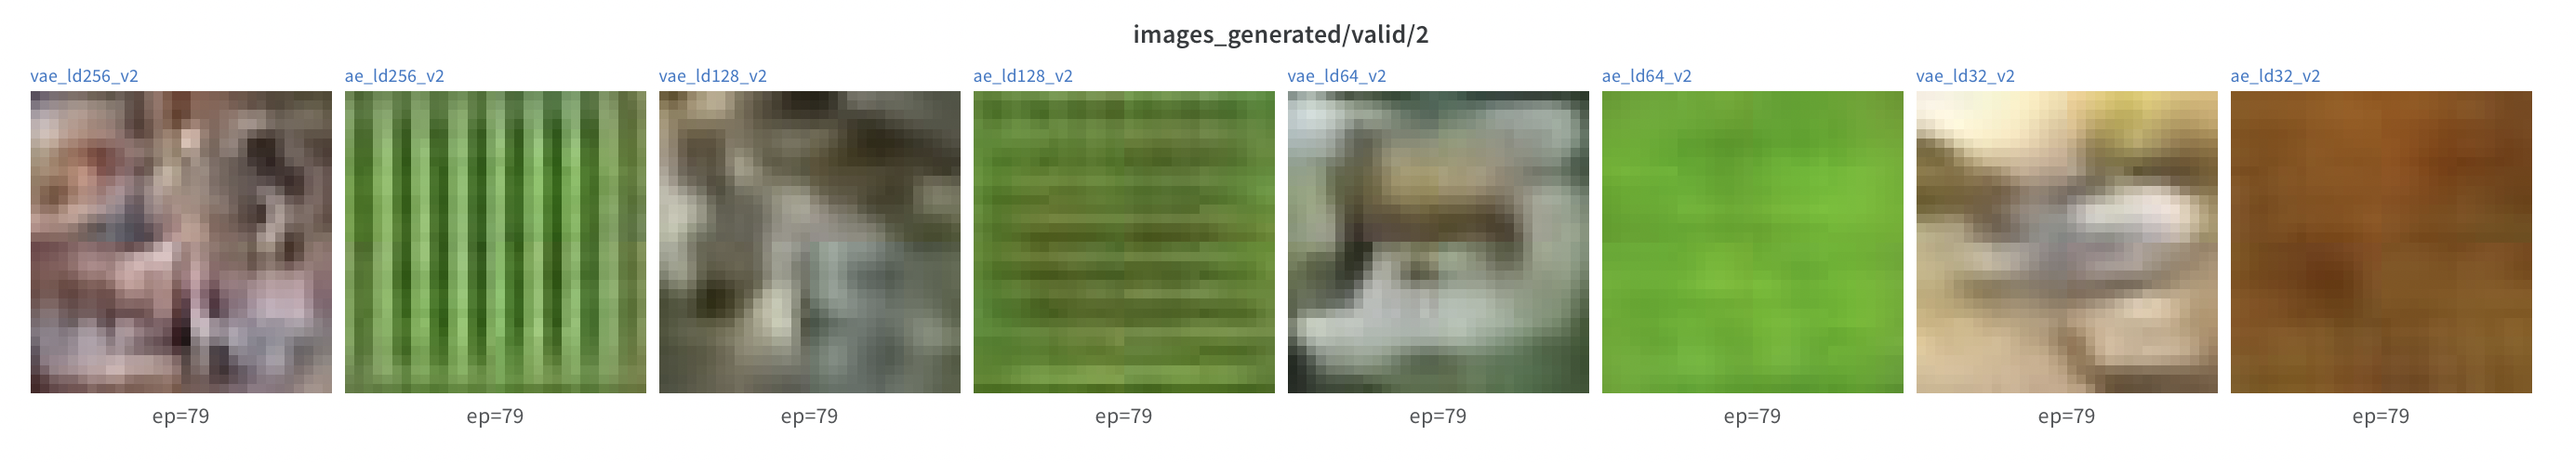
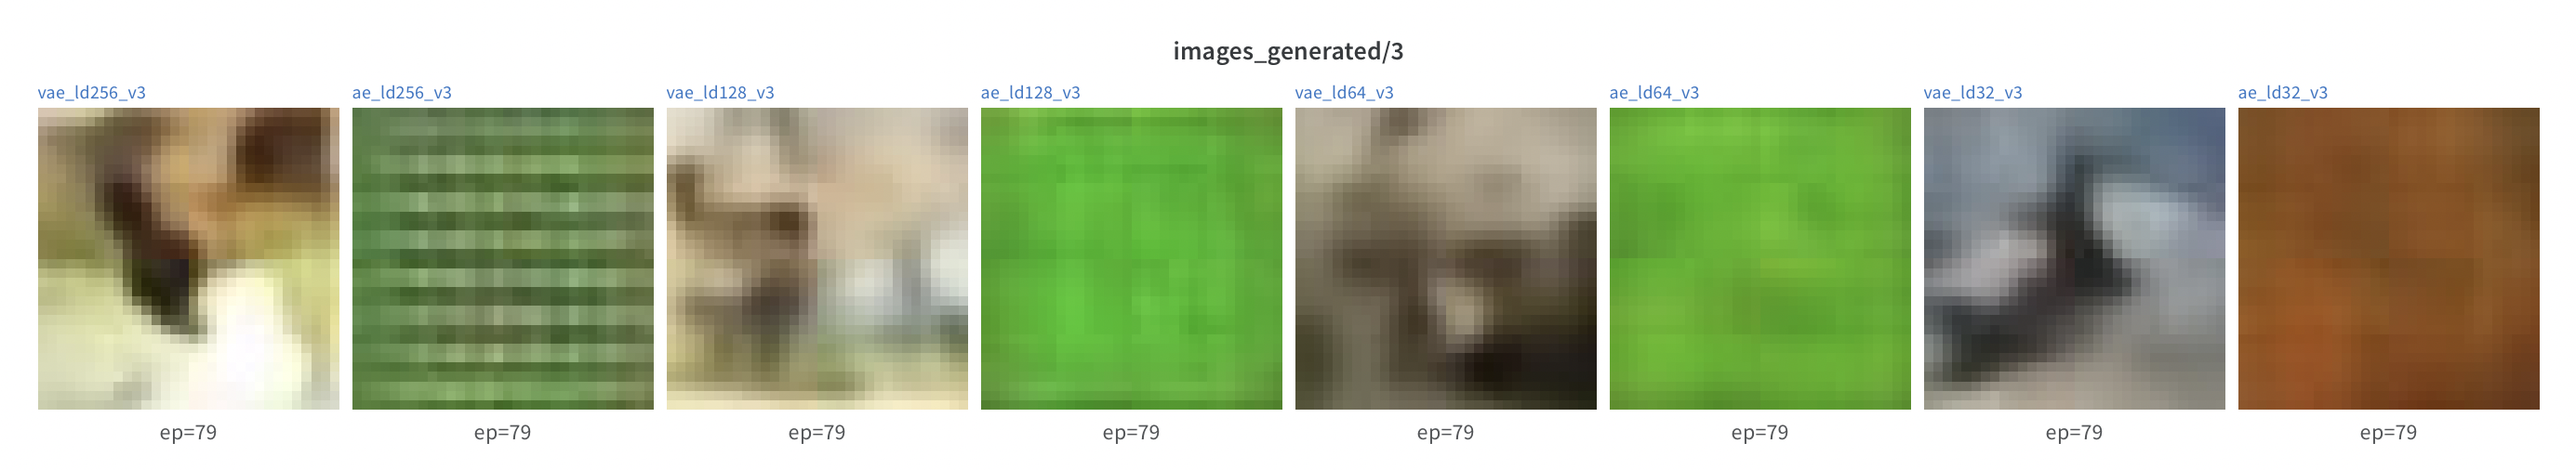
final version

diff --git a/configs/train_classifier_ae_ld32.py b/configs/train_classifier_ae_ld32.py
@@ -63,8 +63,7 @@ config = Config(
     encoder_activation_fn=nn.ReLU,
     decoder_activation_fn=nn.ReLU,
     decoder_out_activation_fn=nn.Sigmoid,  # nn.Tanh, None
-    ae_checkpoint_path="logs/ae_ld32_v2/221116_1859/last.pth",
-    # ae_checkpoint_path="logs/3_ae/221115_2248/best.pth",
+    ae_checkpoint_path="logs/ae_ld32_v3/221117_0121/last.pth",
     mlp_feature_size_lst=[128, 64],
     mlp_activation_fn=nn.ReLU,
     mlp_output_activation_fn=None,

diff --git a/configs/train_classifier_vae_ld128.py b/configs/train_classifier_vae_ld128.py
@@ -63,7 +63,7 @@ config = Config(
     encoder_activation_fn=nn.ReLU,
     decoder_activation_fn=nn.ReLU,
     decoder_out_activation_fn=nn.Sigmoid,  # nn.Tanh, None
-    ae_checkpoint_path="logs/vae_ld128_v2/221116_2030/last.pth",
+    ae_checkpoint_path="logs/vae_ld128_v3/221117_0252/last.pth",
     # ae_checkpoint_path="logs/3_ae/221115_2248/best.pth",
     mlp_feature_size_lst=[128, 64],
     mlp_activation_fn=nn.ReLU,

diff --git a/configs/train_classifier_vae_ld256.py b/configs/train_classifier_vae_ld256.py
@@ -63,7 +63,7 @@ config = Config(
     encoder_activation_fn=nn.ReLU,
     decoder_activation_fn=nn.ReLU,
     decoder_out_activation_fn=nn.Sigmoid,  # nn.Tanh, None
-    ae_checkpoint_path="logs/vae_ld256_v2/221116_2108/last.pth",
+    ae_checkpoint_path="logs/vae_ld256_v3/221117_0334/last.pth",
     # ae_checkpoint_path="logs/3_ae/221115_2248/best.pth",
     mlp_feature_size_lst=[128, 64],
     mlp_activation_fn=nn.ReLU,

diff --git a/configs/train_classifier_ae_ld128.py b/configs/train_classifier_ae_ld128.py
@@ -63,7 +63,7 @@ config = Config(
     encoder_activation_fn=nn.ReLU,
     decoder_activation_fn=nn.ReLU,
     decoder_out_activation_fn=nn.Sigmoid,  # nn.Tanh, None
-    ae_checkpoint_path="logs/ae_ld128_v2/221116_2012/last.pth",
+    ae_checkpoint_path="logs/ae_ld128_v3/221117_0234/last.pth",
     # ae_checkpoint_path="logs/3_ae/221115_2248/best.pth",
     mlp_feature_size_lst=[128, 64],
     mlp_activation_fn=nn.ReLU,

diff --git a/configs/train_classifier_ae_ld256.py b/configs/train_classifier_ae_ld256.py
@@ -63,7 +63,7 @@ config = Config(
     encoder_activation_fn=nn.ReLU,
     decoder_activation_fn=nn.ReLU,
     decoder_out_activation_fn=nn.Sigmoid,  # nn.Tanh, None
-    ae_checkpoint_path="logs/ae_ld256_v2/221116_2050/last.pth",
+    ae_checkpoint_path="logs/ae_ld256_v3/221117_0316/last.pth",
     # ae_checkpoint_path="logs/3_ae/221115_2248/best.pth",
     mlp_feature_size_lst=[128, 64],
     mlp_activation_fn=nn.ReLU,

diff --git a/configs/train_classifier_vae_ld32.py b/configs/train_classifier_vae_ld32.py
@@ -63,7 +63,7 @@ config = Config(
     encoder_activation_fn=nn.ReLU,
     decoder_activation_fn=nn.ReLU,
     decoder_out_activation_fn=nn.Sigmoid,  # nn.Tanh, None
-    ae_checkpoint_path="logs/vae_ld32_v2/221116_1917/last.pth",
+    ae_checkpoint_path="logs/vae_ld32_v3/221117_0139/last.pth",
     # ae_checkpoint_path="logs/3_ae/221115_2248/best.pth",
     mlp_feature_size_lst=[128, 64],
     mlp_activation_fn=nn.ReLU,

diff --git a/configs/train_classifier_vae_ld64.py b/configs/train_classifier_vae_ld64.py
@@ -63,7 +63,7 @@ config = Config(
     encoder_activation_fn=nn.ReLU,
     decoder_activation_fn=nn.ReLU,
     decoder_out_activation_fn=nn.Sigmoid,  # nn.Tanh, None
-    ae_checkpoint_path="logs/vae_ld64_v2/221116_1953/last.pth",
+    ae_checkpoint_path="logs/vae_ld64_v3/221117_0215/last.pth",
     # ae_checkpoint_path="logs/3_ae/221115_2248/best.pth",
     mlp_feature_size_lst=[128, 64],
     mlp_activation_fn=nn.ReLU,

diff --git a/configs/train_classifier_ae_ld64.py b/configs/train_classifier_ae_ld64.py
@@ -63,7 +63,7 @@ config = Config(
     encoder_activation_fn=nn.ReLU,
     decoder_activation_fn=nn.ReLU,
     decoder_out_activation_fn=nn.Sigmoid,  # nn.Tanh, None
-    ae_checkpoint_path="logs/ae_ld64_v2/221116_1935/last.pth",
+    ae_checkpoint_path="logs/ae_ld64_v3/221117_0157/last.pth",
     # ae_checkpoint_path="logs/3_ae/221115_2248/best.pth",
     mlp_feature_size_lst=[128, 64],
     mlp_activation_fn=nn.ReLU,

diff --git a/README.md b/README.md
@@ -42,9 +42,7 @@ sh scripts/eval_ae.sh
 sh scripts/eval_classifier.sh
 ```
 You need to change the `config_path`, `logdir` and `checkpoint` values in these scripts according to your onw ones. The attached scripts can treated as examples.
-
-
-The random seeds are fixed so that the experiments are reproducible. 
+ 
 
 For baseline architectures I took ligh-weigth neural networks for fast training.
 [wandb](https://wandb.ai) is used to log results. On the first run you will be asked your authorization token if wandb is not initialized on your machine.
@@ -54,38 +52,59 @@ I also use the wandb functionality to vizualize the embeddings. On the project p
 
 
 ## Baseline
-I used the light-weight vanilla encoder and decoder modules with different latent space size. A small MLP with 1 hidden layer is used as classifier. I trained autoencoders and classifiers on embeddings with 32, 64, 128 and 256 latent space sizes. According to the obtained results the smallest reconstruction error is acheived with the biggest latent space size, no surprizes here. However, the classifier overfits on embeddings of size 256 after several training steps. The classifier on embeddings of size 128 also overfits but much slower. Both classifiers on embeddings of sizes 64 and 32 show quite good convergence and don't overfit. In result, the latent space with size 64 is the most suitable in such task as the classifier shows the best performance in terms of accuracy without overfitting by the end of training procedure. In general, the samples from CIFAR10 dataset have shapes `32x32x3 = 3072` and represent 10 different classes of objects from wild world. The compression ratio is such case will be `3072 / 64 = 48` which seems reasonable for classification task on image embeddings. As a simple autoencoder is trained on basic MSE loss without any regularizations and priors on the distributions, the constructed latent space is unstructed, that is why the reconstructed samples from standard Gaussian noise don't often represent the samples from the training dataset. The generated samples are logged during training procedure and can be viewed on wandb project page.
+I used the light-weight vanilla encoder and decoder modules with different latent space size. A small MLP with 1 hidden layer is used as classifier. I trained autoencoders and classifiers on embeddings with 32, 64, 128 and 256 latent space sizes. All autoencoders converged quite fast without overfitting. I used cosine annealing learning rate scheduler without restarts. To monitor quality of the reconstructed images I used PSNR. I don't add the reconstructed examples here as it's already obvious that with PSNR value in range 20-26 the reconstructed images are meaningfull and quite simialar to original ones. Moreover, they are in extremely low resolution 32x32 so that reconstruction artifacts are smoothed strongly. According to the obtained results the smallest reconstruction error is acheived with the biggest latent space size, no surprizes here:
 
-## Improvements
-One of the straight-forward improvements is to use the Variational Autoencoder (VAE) as it is learnt in a way to construct the latent space of given samples with particular prior so that the obtained latent space will have a specific induced structure, if to be short. With such intuition one can try to train classifier on the obtained embeddings of given samples which now have meaningful place in latent space. Moreover, if trained correctly and VAE didn't collapse, the VAE decoder can generate quite similar images to the ones from the dataset using samples from prior distribution (standard Normal in my experiments). For reconstruction loss I used simple MSE, though it might be not the best choice.
+![train_ae_mse](resources/train_ae_mse.png)
+![valid_ae_mse](resources/valid_ae_mse.png)
 
-I ran the same experiments as for the baseline vanilla autoencoder with almost the same simple architectures of encoder and decoders. The classifier on embeddings produced by VAEs perform better than on simple autoencoder ones. 
+![train_ae_psnr](resources/train_ae_psnr.png)
+![valid_ae_psnr](resources/valid_ae_psnr.png)
 
-Another direction of improvement is to use more powerful and efficient Encoder and Decoder architectures which can extract better features from dataset images in order to be able to construct a better latent space. Ecoder and Decoder with Resnet18 backbones are implemented in the project as examples.
 
-One more possible approach to improve classifier performance is add the Cross-Entropy loss in training VAE which will introduce another corresponding restrictions on the latent space construction.
+The classifiers were trained on the embeddings produced by trained autoencoders:
 
-Among other regularizations on the latent space can be the something like anti-correlation loss, which will force the embeddings of samples of different classes to be uncorrelated or in the best case orthogonal. Such embeddings should be easily classfied even by classical ML algorithms.
+![train_ae_ce](resources/train_ae_ce.png)
+![valid_ae_ce](resources/valid_ae_ce.png)
 
-## Experiment plots
+![train_ae_acc](resources/train_ae_acc.png)
+![valid_ae_acc](resources/valid_ae_acc.png)
 
-As mentioned above, all autoencoders converged quite fast without overfitting. I used cosine annealing learning rate scheduler without restarts. To monitor quality of the reconstructed images I used PSNR. I don't add the reconstructed examples here as it's already obvious that with PSNR value in range 20-26 the reconstructed images are meaningfull and quite simialar to original ones. Moreover, they are in extremely low resolution 32x32 so that reconstruction artifacts are smoothed strongly.
+One can see that the best performance is achieved by classifier trained on embeddings of size 256, and it converges very fast. However it also overfits rapidly after reaching local minimum of CE. This means that more strict regularizations are needed, including reconsideration of architecture.
+The classifier trained on embeddings of size 128 can't achieve the same quality but also overfits quite fast. According to the obtained results the embeddings of size 32 don't contain enough information neither for precise reconstruction nor for classification, so 32 is too low dimensionality for latent space in this setup. Finally, the classifier trained on the embeddings of size 64 don't overfit and achieve highest scores by the end of training procedure. Its performance is slightly lower than classifier-256's one in its CE local minimum. However classifier-64 is more stable in this setup. In general, the samples from CIFAR10 dataset have shapes `32x32x3 = 3072` and represent 10 different classes of objects from the wild world. The compression ratio in case of latent space of size 64 will be `3072 / 64 = 48` which seems reasonable for classification task on image embeddings. As a simple autoencoder is trained on basic MSE loss without any regularizations and priors on the distributions, the constructed latent space is unstructed, that is why the reconstructed samples from standard Gaussian noise don't often represent the samples from the training dataset. The generated samples are logged during training procedure and can be viewed on wandb project page.
 
-![valid_mse](resources/valid_mse.png)
-![valid_psnr](resources/valid_psnr.png)
 
-Tha small MPL classifier was able to achieve about 85% accuracy on train dataset on latent space of size 256.
+## Impleneted improvements
 
-![train_ce](resources/train_ce.png)
-![train_acc](resources/train_acc.png)
+One of the straight-forward improvements is to use the Variational Autoencoder (VAE) as it is learnt in a way to construct the latent space of given samples with particular prior so that the obtained latent space will have a specific induced structure, if to be short. With such intuition one can try to train classifier on the obtained embeddings of given samples which now have meaningful place in latent space. Moreover, if trained correctly and VAE didn't collapse, the VAE decoder can generate quite similar images to the ones from the dataset using samples from prior distribution (standard Normal in my experiments). I ran the same experiments as for the baseline vanilla autoencoder with almost the same simple architectures of encoder and decoders. For reconstruction loss I used simple MSE, though it might be not the best choice.
 
-However as already discussed above this classifier strongly overfits on 256-sized embeddings, especially for simple autoencoder. One can also see that for each pair basic autoencoder - VAE with the same latent space sizes the corresponding VAEs produce better embreddings for further classification.
+![train_vae_mse](resources/train_vae_mse.png)
+![valid_vae_mse](resources/valid_vae_mse.png)
 
-![valid_ce](resources/valid_ce.png)
-![valid_acc](resources/valid_acc.png)
+![train_vae_psnr](resources/train_vae_psnr.png)
+![valid_vae_psnr](resources/valid_vae_psnr.png)
+
+The reconstruction MSE loss values are lower for the corresponding pairs of AEs and VAEs as VAEs have explicit regularization on the structure of latent space by KLD loss, which makes reconstruction slightly worse than without KLD.
+
+The classifiers trained on embeddings of VAEs converge stably for all latent space dimentionalities. Their performance is generally better than the corresponding pairs for basic AE. Moreover, classifiers trained on embeddings of sizes 64, 128 and 256 perform rather simillar by the end of the training procedure. Thus in such case 64 or 128 are good candidates for latent space size.
+
+![train_vae_ce](resources/train_vae_ce.png)
+![valid_vae_ce](resources/valid_vae_ce.png)
+
+![train_vae_acc](resources/train_vae_acc.png)
+![valid_vae_acc](resources/valid_vae_acc.png)
 
 The image below demonstrates the generative ability of different autoencoders:
 
 ![sampled_imgs](resources/sampled_imgs.png)
 
-As one can see, all basic autoencoders can't generate meaningfull results from vector sampled from standard Normal distribution. At that time VAE are able to generate some close images to the ones from dataset in some sense. The best illustration is for VAE with 64 latent space size, where one can clearly see the image of the puppy. These images are randomly chosen and are not cherry-picked.
+As one can see, all basic autoencoders can't generate meaningfull results from vector sampled from standard Normal distribution. At that time VAEs are able to generate close images to the ones from dataset in some sense. A good illustration is for VAE with 64 latent space size where one can see the image close to a dog. The VAE with latent space of size 256 produced a clear image of a bird. These images are randomly chosen and are not cherry-picked.
+
+## Other possible improvements
+
+One direction of improvement is to use more powerful and efficient Encoder and Decoder architectures which can extract better features from dataset images in order to be able to construct a better latent space. Ecoder and Decoder with Resnet18 backbones are implemented in the project as examples.
+
+The main idea is to organize the latent space in such a way that the emdebbings of different samples can be easily separated preserving the reconstruction ability of autoencoder.
+
+Another possible approach to improve classifier performance is add the Cross-Entropy loss in training VAE which will introduce another corresponding restrictions on the latent space construction.
+
+One more possible regularizations on the latent space can be the something like anti-correlation loss, which will force the embeddings of samples of different classes to be uncorrelated or in the best case orthogonal. Such embeddings should be easily classified even by classical ML algorithms.
